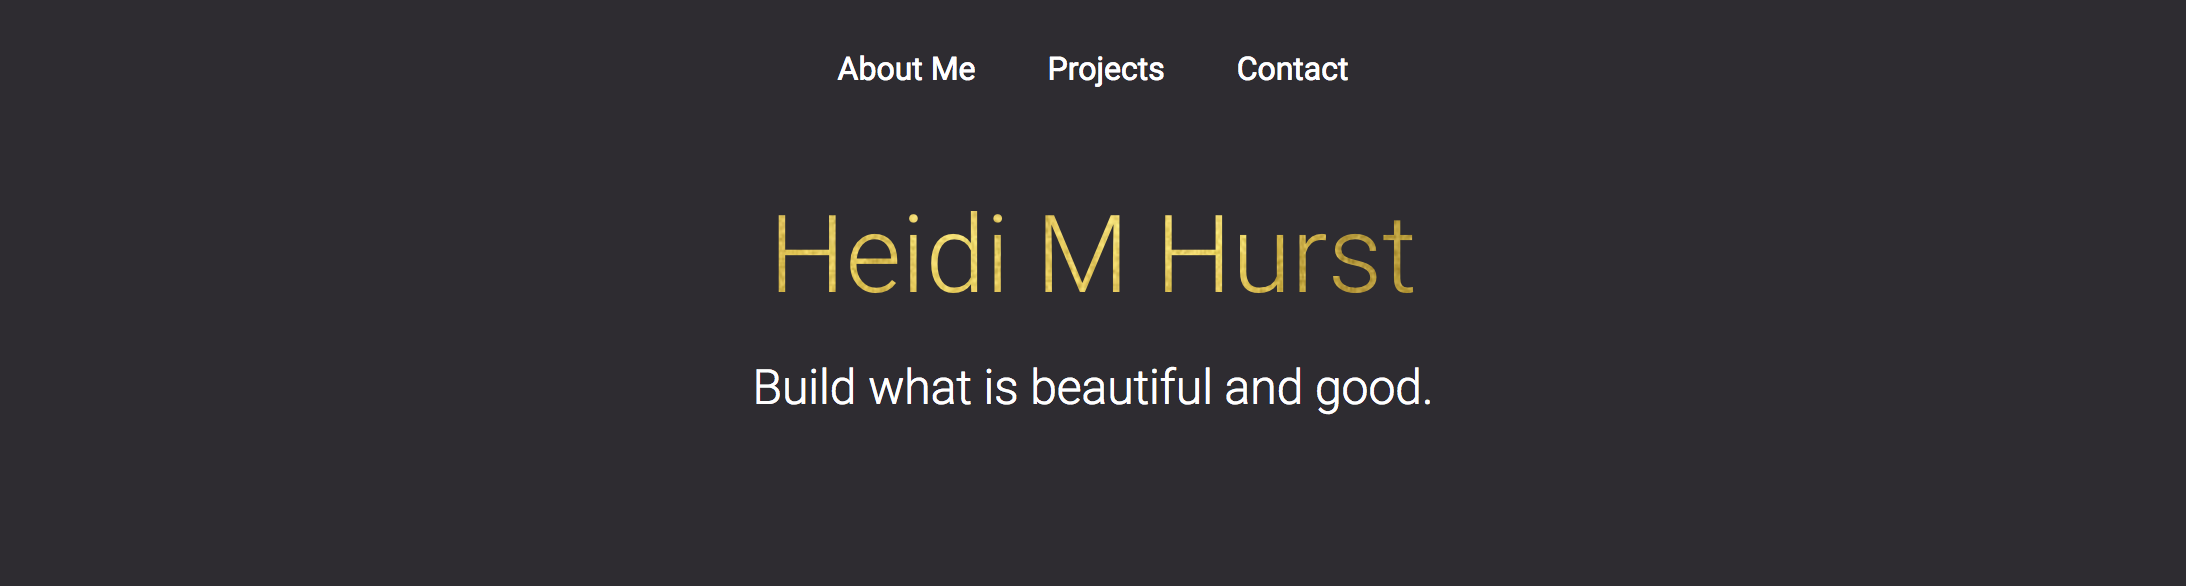
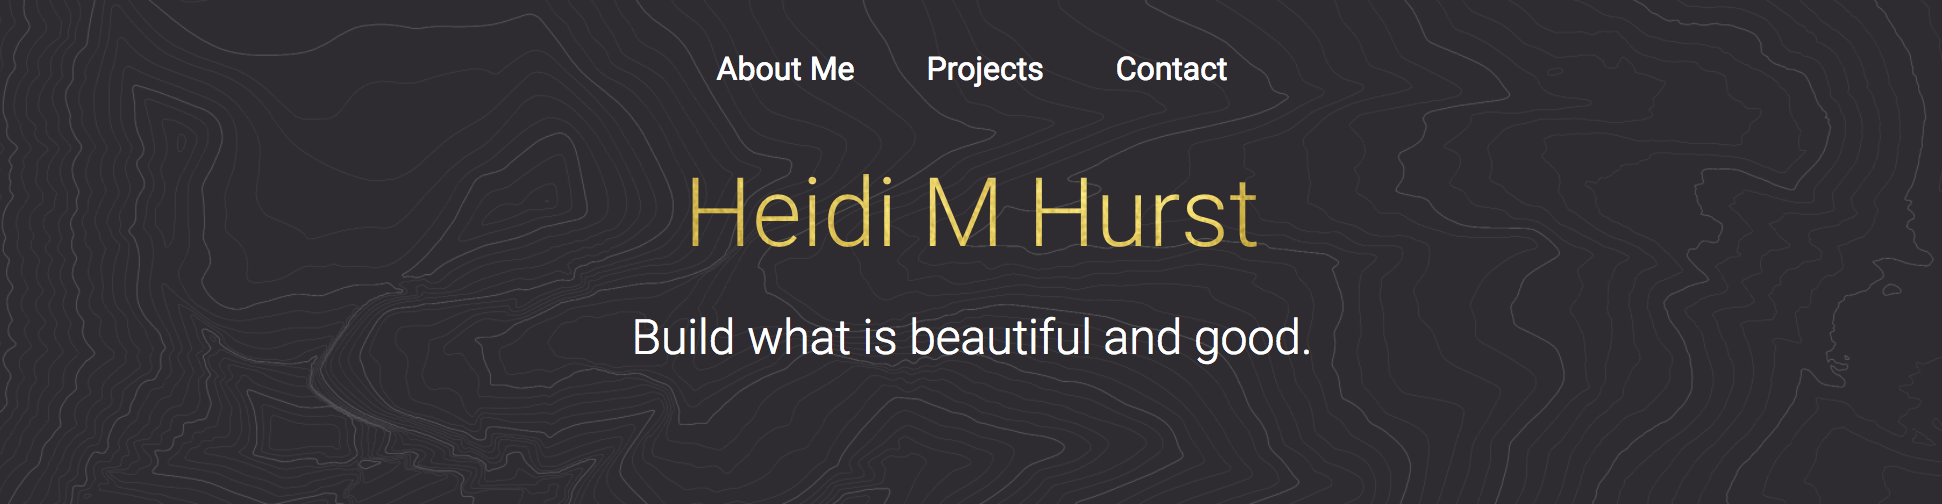
added topo image to header

diff --git a/_site/assets/css/style.css b/_site/assets/css/style.css
@@ -8,4 +8,4 @@
  * http://primercss.io
  *
  * Released under MIT license. Copyright 2015 GitHub, Inc.
- */.alt-mono-font{font-family:"SFMono-Regular",Consolas,"Liberation Mono",Menlo,Courier,monospace}.alt-h0,.alt-h1,.alt-h2,.alt-h3,.alt-h4,.alt-h5,.alt-h6,.alt-lead{-webkit-font-smoothing:antialiased;font-family:Roboto,-apple-system,BlinkMacSystemFont,"Helvetica Neue","Segoe UI","Oxygen","Ubuntu","Cantarell","Open Sans",sans-serif}.alt-h0{font-size:48px;font-weight:300}@media (min-width: 768px){.alt-h0{font-size:54px}}@media (min-width: 1012px){.alt-h0{font-size:72px}}.alt-h1{font-size:36px;font-weight:300}@media (min-width: 768px){.alt-h1{font-size:48px}}@media (min-width: 1012px){.alt-h1{font-size:54px}}.alt-h2{font-size:28px;font-weight:300}@media (min-width: 768px){.alt-h2{font-size:34px}}@media (min-width: 1012px){.alt-h2{font-size:38px}}.alt-h3{font-size:18px;font-weight:400}@media (min-width: 768px){.alt-h3{font-size:20px}}@media (min-width: 1012px){.alt-h3{font-size:22px}}.alt-h4{font-size:16px;font-weight:500}.alt-h5{font-size:14px;font-weight:500}.alt-h6{font-size:12px;font-weight:500}.alt-lead{-webkit-font-smoothing:antialiased;font-size:21px;font-weight:300}@media (min-width: 768px){.alt-lead{font-size:24px}}@media (min-width: 1012px){.alt-lead{font-size:26px}}.alt-text-small{font-size:14px !important}.pullquote{padding-top:0;padding-bottom:0;padding-left:8px;margin-bottom:24px;font-family:"SFMono-Regular",Consolas,"Liberation Mono",Menlo,Courier,monospace;font-size:16px;line-height:1.4;color:#586069;border-left:3px solid #e1e4e8}@media (min-width: 768px){.pullquote{padding-left:12px;margin-bottom:32px;margin-left:-15px;font-size:18px;line-height:1.5}}.breadcrumb-item{display:inline-block;margin-left:-4px;white-space:nowrap;list-style:none}.breadcrumb-item::after{padding-right:0.5em;padding-left:0.5em;color:#e1e4e8;content:"/"}.breadcrumb-item-selected::after{content:none}.card{background-color:#fff;border:1px #e1e4e8 solid;border-radius:6px;box-shadow:0 1px 1px rgba(27,31,35,0.1)}.jumbotron{position:relative;padding-top:40px;padding-bottom:40px}@media (min-width: 544px){.jumbotron{padding-top:60px;padding-bottom:60px}}@media (min-width: 1280px){.jumbotron{padding-top:120px;padding-bottom:120px}}@media (min-width: 1012px){.jumbotron-supertron{height:45vw;min-height:590px;max-height:55vh;padding-top:80px;padding-bottom:80px}}.jumbotron-minitron{padding-top:24px;padding-bottom:24px}@media (min-width: 544px){.jumbotron-minitron{padding-top:32px;padding-bottom:32px}}.jumbotron-shadow::after{position:absolute;bottom:0;left:0;width:100%;height:30px;content:" ";background-color:transparent;background-image:linear-gradient(transparent, rgba(0,0,0,0.05));background-repeat:repeat-x;box-shadow:inset 0 -1px 0 rgba(0,0,0,0.05)}.jumbotron-photo{position:relative;background-color:#24292e;background-size:cover}.jumbotron-photo::before{position:absolute;bottom:0;left:0;display:block;width:100%;height:100%;content:"";background-color:rgba(0,0,0,0.25)}.page-section{padding:32px 0;margin-top:0}@media (min-width: 768px){.page-section{padding:56px 0}}.page-section-jumplink:target{padding-top:112px}@media (min-width: 768px){.page-section-jumplink:target{padding-top:80px}}.data-table{width:100%;margin-top:16px;border-collapse:collapse;border:1px #e1e4e8 solid;box-shadow:0 1px 1px rgba(27,31,35,0.05)}.data-table th{font-weight:400;text-align:left}.data-table td,.data-table th{padding:16px;border-right:1px #e1e4e8 solid;border-bottom:1px #e1e4e8 solid}.data-table tbody th{width:25%}.data-table tbody th,.data-table tbody td{border-bottom-color:#e1e4e8}.data-table tbody tr:last-child th,.data-table tbody tr:last-child td{border-bottom:1px #e1e4e8 solid}.grayscale{filter:grayscale(100%)}@media (min-width: 544px){.border-sm-top{border-top:1px #e1e4e8 solid !important}.border-sm-right{border-right:1px #e1e4e8 solid !important}.border-sm-bottom{border-bottom:1px #e1e4e8 solid !important}.border-sm-left{border-left:1px #e1e4e8 solid !important}.border-sm-top-0{border-top:0 !important}.border-sm-right-0{border-right:0 !important}.border-sm-bottom-0{border-bottom:0 !important}.border-sm-left-0{border-left:0 !important}}@media (min-width: 768px){.border-md-top{border-top:1px #e1e4e8 solid !important}.border-md-right{border-right:1px #e1e4e8 solid !important}.border-md-bottom{border-bottom:1px #e1e4e8 solid !important}.border-md-left{border-left:1px #e1e4e8 solid !important}.border-md-top-0{border-top:0 !important}.border-md-right-0{border-right:0 !important}.border-md-bottom-0{border-bottom:0 !important}.border-md-left-0{border-left:0 !important}}@media (min-width: 1012px){.border-lg-top{border-top:1px #e1e4e8 solid !important}.border-lg-right{border-right:1px #e1e4e8 solid !important}.border-lg-bottom{border-bottom:1px #e1e4e8 solid !important}.border-lg-left{border-left:1px #e1e4e8 solid !important}.border-lg-top-0{border-top:0 !important}.border-lg-right-0{border-right:0 !important}.border-lg-bottom-0{border-bottom:0 !important}.border-lg-left-0{border-left:0 !important}}@media (min-width: 1280px){.border-xl-top{border-top:1px #e1e4e8 solid !important}.border-xl-right{border-right:1px #e1e4e8 solid !important}.border-xl-bottom{border-bottom:1px #e1e4e8 solid !important}.border-xl-left{border-left:1px #e1e4e8 solid !important}.border-xl-top-0{border-top:0 !important}.border-xl-right-0{border-right:0 !important}.border-xl-bottom-0{border-bottom:0 !important}.border-xl-left-0{border-left:0 !important}}body{font-family:'Roboto', 'Helvetica Neue', Helvetica, Arial, sans-serif;font-size:16px}.page-header{width:100%;background-color:#2b282d}.btn{color:#6a737d;background-color:#fff}.btn:hover{color:#fff;background-color:#6a737d;border-color:#c3a343}.btn-outline{color:#6a737d;background-color:#fff}.btn-outline:hover{border-color:#c3a343;color:#c3a343;-webkit-text-fill-color:transparent;background:-webkit-linear-gradient(transparent, transparent),url("../img/gold.jpg") repeat;background:-o-linear-gradient(#000, #000);background-color:#000;-webkit-background-clip:text}a,a:link{color:#6a737d}a:hover{color:#c3a343}.gold-text{color:#c3a343;-webkit-text-fill-color:transparent;background:-webkit-linear-gradient(transparent, transparent),url("../img/gold.jpg") repeat;background:-o-linear-gradient(transparent, transparent);-webkit-background-clip:text}.logo{max-width:280px}.fill-blue{fill:#0366d6}.fill-gray{fill:#6a737d}.fill-gray-light{fill:#959da5}.fill-gold{fill:#c3a343}.img-border{border:1px solid #fff;max-width:100%}.img-border:hover{border:1px solid #c3a343;max-width:100%}.featured-orgs{margin-right:-55px;margin-left:-55px;max-height:348px;overflow:hidden;text-align:center}#filter{border-radius:0;border:none;border-bottom:2px solid #2D86FB;box-shadow:none;padding-left:0;padding-bottom:0}.org-include .no-matches{display:none}.animate-in{-webkit-transition:all 0.6s ease-in-out 0s;transition:all 0.6s ease-in-out 0s;-webkit-transform:translateZ(0);transform:translateZ(0)}.animate-out{-webkit-transition:all 0.6s ease-in-out 0s;transition:all 0.6s ease-in-out 0s;-webkit-animation:scale-in 0.6s ease-in-out;animation:scale-in 0.6s ease-in-out}@keyframes scale-in{0%{-webkit-transform:scale(0.4);transform:scale(0.4)}100%{-webkit-transform:scale(1);transform:scale(1)}}@-webkit-keyframes scale-in{0%{-webkit-transform:scale(0.4)}100%{-webkit-transform:scale(1)}}.pre-animate{opacity:0;-webkit-transform:translateX(25px);transform:translateX(25px)}.pre-animate-out{opacity:0;-webkit-transform:scale(0.4);transform:scale(0.4)}.a11y-table{min-width:640px;border:1px #e1e4e8 solid;margin-top:16px}.a11y-table th{background:#eeeeee;font-size:14px}@media (min-width: 1012px){.a11y-table th{font-size:16px}}.a11y-table tr{font-size:13px}@media (min-width: 1012px){.a11y-table tr{font-size:14px}}.a11y-table td,.a11y-table th{padding:8px;border:1px #e1e4e8 solid}@media (min-width: 768px){.a11y-table td,.a11y-table th{padding:16px}}.a11y-table td.criterion{width:45%}.a11y-table td.support{width:20%;font-size:16px}.a11y-table td.comments{width:35%}td.supports{color:#28a745}td.not-applicable{color:#6a737d}td.supports-with-exceptions{color:#f66a0a}td.does-not-support{color:#d73a49}
+ */.alt-mono-font{font-family:"SFMono-Regular",Consolas,"Liberation Mono",Menlo,Courier,monospace}.alt-h0,.alt-h1,.alt-h2,.alt-h3,.alt-h4,.alt-h5,.alt-h6,.alt-lead{-webkit-font-smoothing:antialiased;font-family:Roboto,-apple-system,BlinkMacSystemFont,"Helvetica Neue","Segoe UI","Oxygen","Ubuntu","Cantarell","Open Sans",sans-serif}.alt-h0{font-size:48px;font-weight:300}@media (min-width: 768px){.alt-h0{font-size:54px}}@media (min-width: 1012px){.alt-h0{font-size:72px}}.alt-h1{font-size:36px;font-weight:300}@media (min-width: 768px){.alt-h1{font-size:48px}}@media (min-width: 1012px){.alt-h1{font-size:54px}}.alt-h2{font-size:28px;font-weight:300}@media (min-width: 768px){.alt-h2{font-size:34px}}@media (min-width: 1012px){.alt-h2{font-size:38px}}.alt-h3{font-size:18px;font-weight:400}@media (min-width: 768px){.alt-h3{font-size:20px}}@media (min-width: 1012px){.alt-h3{font-size:22px}}.alt-h4{font-size:16px;font-weight:500}.alt-h5{font-size:14px;font-weight:500}.alt-h6{font-size:12px;font-weight:500}.alt-lead{-webkit-font-smoothing:antialiased;font-size:21px;font-weight:300}@media (min-width: 768px){.alt-lead{font-size:24px}}@media (min-width: 1012px){.alt-lead{font-size:26px}}.alt-text-small{font-size:14px !important}.pullquote{padding-top:0;padding-bottom:0;padding-left:8px;margin-bottom:24px;font-family:"SFMono-Regular",Consolas,"Liberation Mono",Menlo,Courier,monospace;font-size:16px;line-height:1.4;color:#586069;border-left:3px solid #e1e4e8}@media (min-width: 768px){.pullquote{padding-left:12px;margin-bottom:32px;margin-left:-15px;font-size:18px;line-height:1.5}}.breadcrumb-item{display:inline-block;margin-left:-4px;white-space:nowrap;list-style:none}.breadcrumb-item::after{padding-right:0.5em;padding-left:0.5em;color:#e1e4e8;content:"/"}.breadcrumb-item-selected::after{content:none}.card{background-color:#fff;border:1px #e1e4e8 solid;border-radius:6px;box-shadow:0 1px 1px rgba(27,31,35,0.1)}.jumbotron{position:relative;padding-top:40px;padding-bottom:40px}@media (min-width: 544px){.jumbotron{padding-top:60px;padding-bottom:60px}}@media (min-width: 1280px){.jumbotron{padding-top:120px;padding-bottom:120px}}@media (min-width: 1012px){.jumbotron-supertron{height:45vw;min-height:590px;max-height:55vh;padding-top:80px;padding-bottom:80px}}.jumbotron-minitron{padding-top:24px;padding-bottom:24px}@media (min-width: 544px){.jumbotron-minitron{padding-top:32px;padding-bottom:32px}}.jumbotron-shadow::after{position:absolute;bottom:0;left:0;width:100%;height:30px;content:" ";background-color:transparent;background-image:linear-gradient(transparent, rgba(0,0,0,0.05));background-repeat:repeat-x;box-shadow:inset 0 -1px 0 rgba(0,0,0,0.05)}.jumbotron-photo{position:relative;background-color:#24292e;background-size:cover}.jumbotron-photo::before{position:absolute;bottom:0;left:0;display:block;width:100%;height:100%;content:"";background-color:rgba(0,0,0,0.25)}.page-section{padding:32px 0;margin-top:0}@media (min-width: 768px){.page-section{padding:56px 0}}.page-section-jumplink:target{padding-top:112px}@media (min-width: 768px){.page-section-jumplink:target{padding-top:80px}}.data-table{width:100%;margin-top:16px;border-collapse:collapse;border:1px #e1e4e8 solid;box-shadow:0 1px 1px rgba(27,31,35,0.05)}.data-table th{font-weight:400;text-align:left}.data-table td,.data-table th{padding:16px;border-right:1px #e1e4e8 solid;border-bottom:1px #e1e4e8 solid}.data-table tbody th{width:25%}.data-table tbody th,.data-table tbody td{border-bottom-color:#e1e4e8}.data-table tbody tr:last-child th,.data-table tbody tr:last-child td{border-bottom:1px #e1e4e8 solid}.grayscale{filter:grayscale(100%)}@media (min-width: 544px){.border-sm-top{border-top:1px #e1e4e8 solid !important}.border-sm-right{border-right:1px #e1e4e8 solid !important}.border-sm-bottom{border-bottom:1px #e1e4e8 solid !important}.border-sm-left{border-left:1px #e1e4e8 solid !important}.border-sm-top-0{border-top:0 !important}.border-sm-right-0{border-right:0 !important}.border-sm-bottom-0{border-bottom:0 !important}.border-sm-left-0{border-left:0 !important}}@media (min-width: 768px){.border-md-top{border-top:1px #e1e4e8 solid !important}.border-md-right{border-right:1px #e1e4e8 solid !important}.border-md-bottom{border-bottom:1px #e1e4e8 solid !important}.border-md-left{border-left:1px #e1e4e8 solid !important}.border-md-top-0{border-top:0 !important}.border-md-right-0{border-right:0 !important}.border-md-bottom-0{border-bottom:0 !important}.border-md-left-0{border-left:0 !important}}@media (min-width: 1012px){.border-lg-top{border-top:1px #e1e4e8 solid !important}.border-lg-right{border-right:1px #e1e4e8 solid !important}.border-lg-bottom{border-bottom:1px #e1e4e8 solid !important}.border-lg-left{border-left:1px #e1e4e8 solid !important}.border-lg-top-0{border-top:0 !important}.border-lg-right-0{border-right:0 !important}.border-lg-bottom-0{border-bottom:0 !important}.border-lg-left-0{border-left:0 !important}}@media (min-width: 1280px){.border-xl-top{border-top:1px #e1e4e8 solid !important}.border-xl-right{border-right:1px #e1e4e8 solid !important}.border-xl-bottom{border-bottom:1px #e1e4e8 solid !important}.border-xl-left{border-left:1px #e1e4e8 solid !important}.border-xl-top-0{border-top:0 !important}.border-xl-right-0{border-right:0 !important}.border-xl-bottom-0{border-bottom:0 !important}.border-xl-left-0{border-left:0 !important}}body{font-family:'Roboto', 'Helvetica Neue', Helvetica, Arial, sans-serif;font-size:16px}.page-header{width:100%;background-color:#2b282d;-webkit-transition:background-image 0.6s ease-in-out 0s;-moz-transition:background-image 0.6s ease-in-out 0s;-o-transition:background-image 0.6s ease-in-out 0s;transition:background-image 0.6s ease-in-out 0s;background-image:url("../img/longs_header.png");background-repeat:no-repeat;background-position:center center;background-size:cover}.btn{color:#6a737d;background-color:#fff}.btn:hover{color:#fff;background-color:#6a737d;border-color:#c3a343}.btn-outline{color:#6a737d;background-color:#fff}.btn-outline:hover{border-color:#c3a343;color:#c3a343;-webkit-text-fill-color:transparent;background:-webkit-linear-gradient(transparent, transparent),url("../img/gold.jpg") repeat;background:-o-linear-gradient(#000, #000);background-color:#000;-webkit-background-clip:text}a,a:link{color:#6a737d}a:hover{color:#c3a343}.gold-text{color:#c3a343;-webkit-text-fill-color:transparent;background:-webkit-linear-gradient(transparent, transparent),url("../img/gold.jpg") repeat;background:-o-linear-gradient(transparent, transparent);-webkit-background-clip:text}.logo{max-width:280px}.fill-blue{fill:#0366d6}.fill-gray{fill:#6a737d}.fill-gray-light{fill:#959da5}.fill-gold{fill:#c3a343}.img-border{border:1px solid #fff;max-width:100%}.img-border:hover{border:1px solid #c3a343;max-width:100%}.featured-orgs{margin-right:-55px;margin-left:-55px;max-height:348px;overflow:hidden;text-align:center}#filter{border-radius:0;border:none;border-bottom:2px solid #2D86FB;box-shadow:none;padding-left:0;padding-bottom:0}.org-include .no-matches{display:none}.animate-in{-webkit-transition:all 0.6s ease-in-out 0s;transition:all 0.6s ease-in-out 0s;-webkit-transform:translateZ(0);transform:translateZ(0)}.animate-out{-webkit-transition:all 0.6s ease-in-out 0s;transition:all 0.6s ease-in-out 0s;-webkit-animation:scale-in 0.6s ease-in-out;animation:scale-in 0.6s ease-in-out}@keyframes scale-in{0%{-webkit-transform:scale(0.4);transform:scale(0.4)}100%{-webkit-transform:scale(1);transform:scale(1)}}@-webkit-keyframes scale-in{0%{-webkit-transform:scale(0.4)}100%{-webkit-transform:scale(1)}}.pre-animate{opacity:0;-webkit-transform:translateX(25px);transform:translateX(25px)}.pre-animate-out{opacity:0;-webkit-transform:scale(0.4);transform:scale(0.4)}.a11y-table{min-width:640px;border:1px #e1e4e8 solid;margin-top:16px}.a11y-table th{background:#eeeeee;font-size:14px}@media (min-width: 1012px){.a11y-table th{font-size:16px}}.a11y-table tr{font-size:13px}@media (min-width: 1012px){.a11y-table tr{font-size:14px}}.a11y-table td,.a11y-table th{padding:8px;border:1px #e1e4e8 solid}@media (min-width: 768px){.a11y-table td,.a11y-table th{padding:16px}}.a11y-table td.criterion{width:45%}.a11y-table td.support{width:20%;font-size:16px}.a11y-table td.comments{width:35%}td.supports{color:#28a745}td.not-applicable{color:#6a737d}td.supports-with-exceptions{color:#f66a0a}td.does-not-support{color:#d73a49}

diff --git a/_site/assets/css/custom.scss b/_site/assets/css/custom.scss
@@ -13,14 +13,14 @@ body {
 .page-header {
   width: 100%;
   background-color: $dgray;
-  //-webkit-transition: background-image 0.6s ease-in-out 0s;
-  //-moz-transition: background-image 0.6s ease-in-out 0s;
-  //-o-transition: background-image 0.6s ease-in-out 0s;
-  //transition: background-image 0.6s ease-in-out 0s;
-  //background-image: url('../img/sunset.png');
-  //background-repeat: no-repeat;
-  //background-position: center center;
-  //background-size: 100%;
+  -webkit-transition: background-image 0.6s ease-in-out 0s;
+  -moz-transition: background-image 0.6s ease-in-out 0s;
+  -o-transition: background-image 0.6s ease-in-out 0s;
+  transition: background-image 0.6s ease-in-out 0s;
+  background-image: url('../img/longs_header.png');
+  background-repeat: no-repeat;
+  background-position: center center;
+  background-size: cover;
 }
 
 .btn {

diff --git a/assets/css/custom.scss b/assets/css/custom.scss
@@ -13,14 +13,14 @@ body {
 .page-header {
   width: 100%;
   background-color: $dgray;
-  //-webkit-transition: background-image 0.6s ease-in-out 0s;
-  //-moz-transition: background-image 0.6s ease-in-out 0s;
-  //-o-transition: background-image 0.6s ease-in-out 0s;
-  //transition: background-image 0.6s ease-in-out 0s;
-  //background-image: url('../img/sunset.png');
-  //background-repeat: no-repeat;
-  //background-position: center center;
-  //background-size: 100%;
+  -webkit-transition: background-image 0.6s ease-in-out 0s;
+  -moz-transition: background-image 0.6s ease-in-out 0s;
+  -o-transition: background-image 0.6s ease-in-out 0s;
+  transition: background-image 0.6s ease-in-out 0s;
+  background-image: url('../img/longs_header.png');
+  background-repeat: no-repeat;
+  background-position: center center;
+  background-size: cover;
 }
 
 .btn {

diff --git a/_site/index.html b/_site/index.html
@@ -4,6 +4,7 @@
   <meta charset="utf-8">
   <meta http-equiv="X-UA-Compatible" content="IE=edge">
   <meta name="viewport" content="width=device-width, initial-scale=1">
+  <title>Heidi M Hurst</title>
   <link rel="shortcut icon" href="/assets/img/globe.svg" type="image/x-icon">
   <link rel="stylesheet" href="/assets/css/style.css">
   <link href="https://fonts.googleapis.com/css?family=Roboto:300,300i,400,400i,700,700i" rel="stylesheet">
@@ -150,5 +151,5 @@
      -->
   </body>
 </html>
-<!-- Proudly powered by GitHub Pages ~ Generated 2018-01-29 18:48:50 +0000 -->
+<!-- Proudly powered by GitHub Pages ~ Generated 2018-01-30 15:37:46 +0000 -->
 

diff --git a/_site/404.html b/_site/404.html
@@ -4,6 +4,7 @@
   <meta charset="utf-8">
   <meta http-equiv="X-UA-Compatible" content="IE=edge">
   <meta name="viewport" content="width=device-width, initial-scale=1">
+  <title>Heidi M Hurst</title>
   <link rel="shortcut icon" href="/assets/img/globe.svg" type="image/x-icon">
   <link rel="stylesheet" href="/assets/css/style.css">
   <link href="https://fonts.googleapis.com/css?family=Roboto:300,300i,400,400i,700,700i" rel="stylesheet">
@@ -69,5 +70,5 @@
      -->
   </body>
 </html>
-<!-- Proudly powered by GitHub Pages ~ Generated 2018-01-29 18:48:50 +0000 -->
+<!-- Proudly powered by GitHub Pages ~ Generated 2018-01-30 15:37:46 +0000 -->
 
